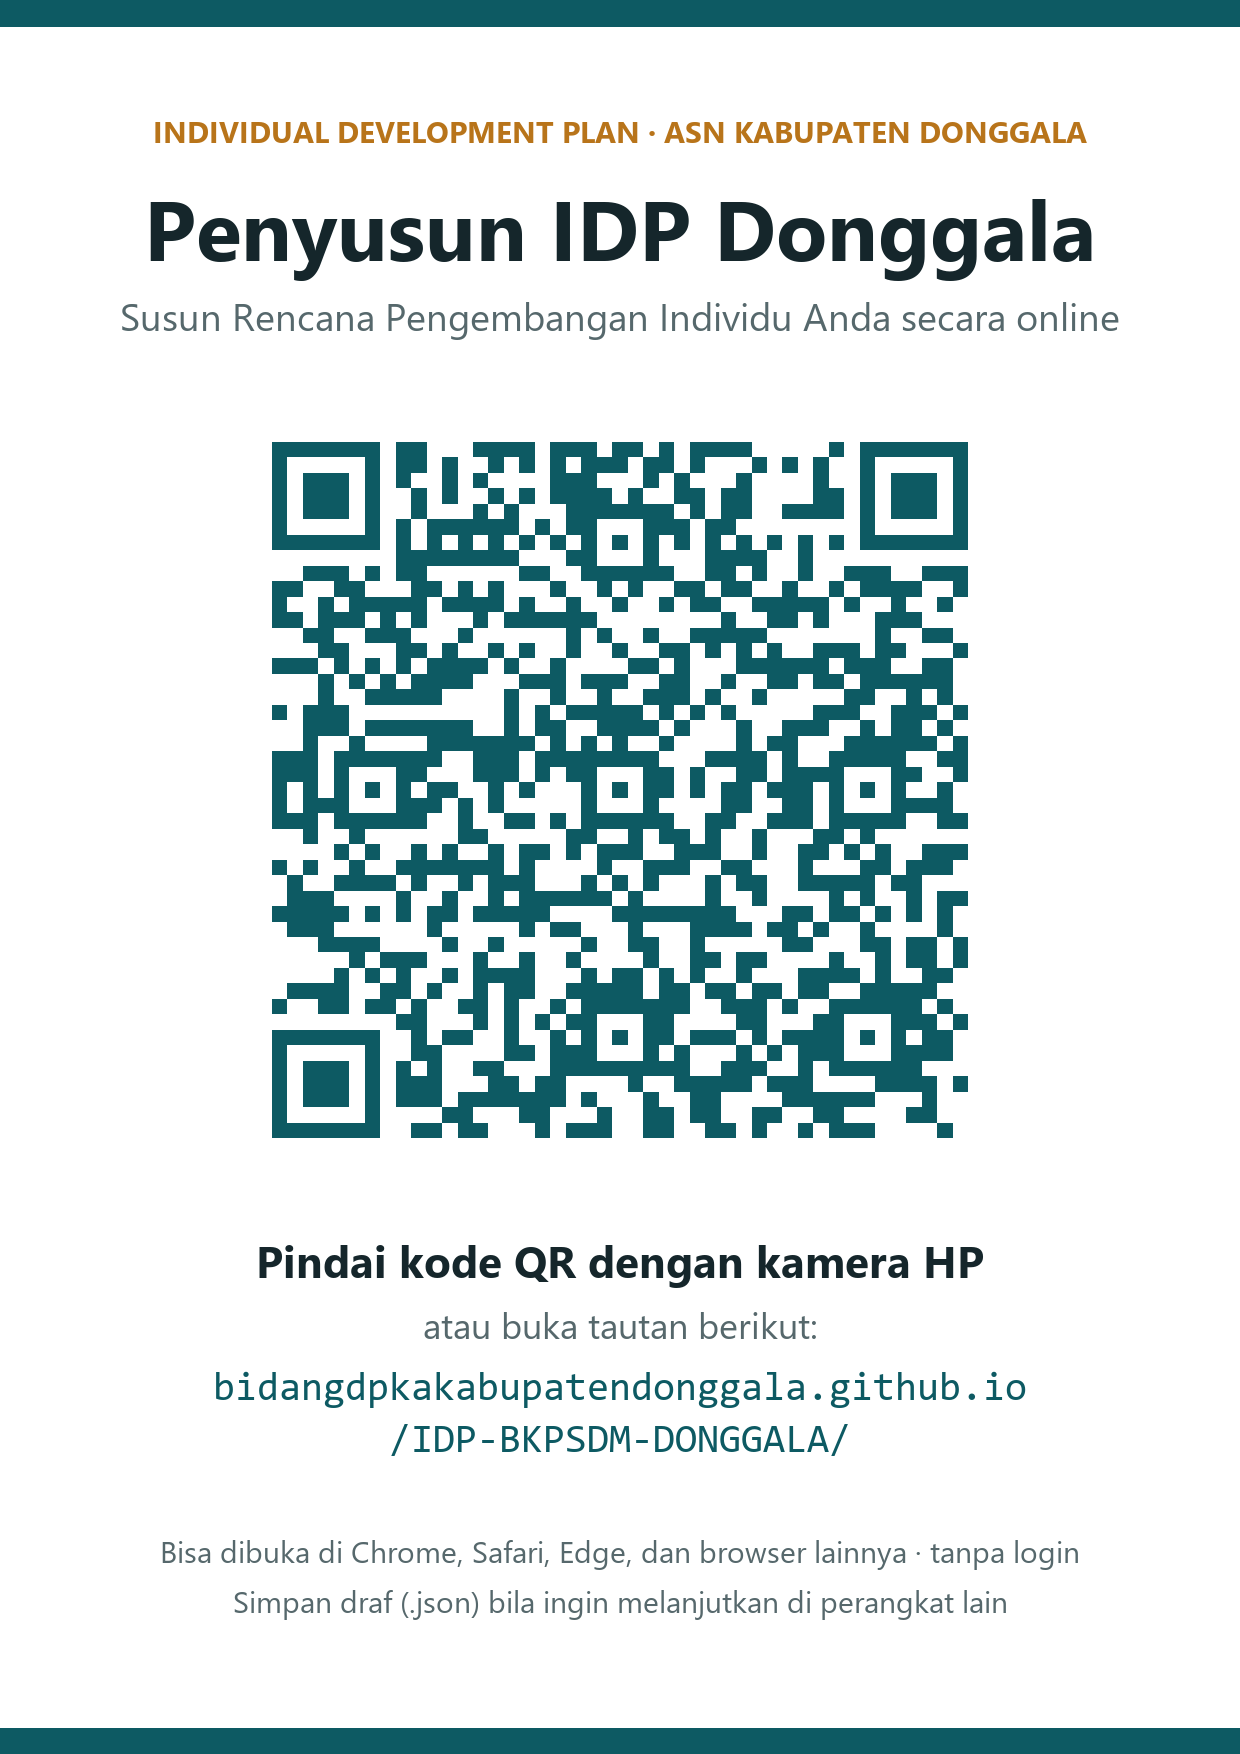
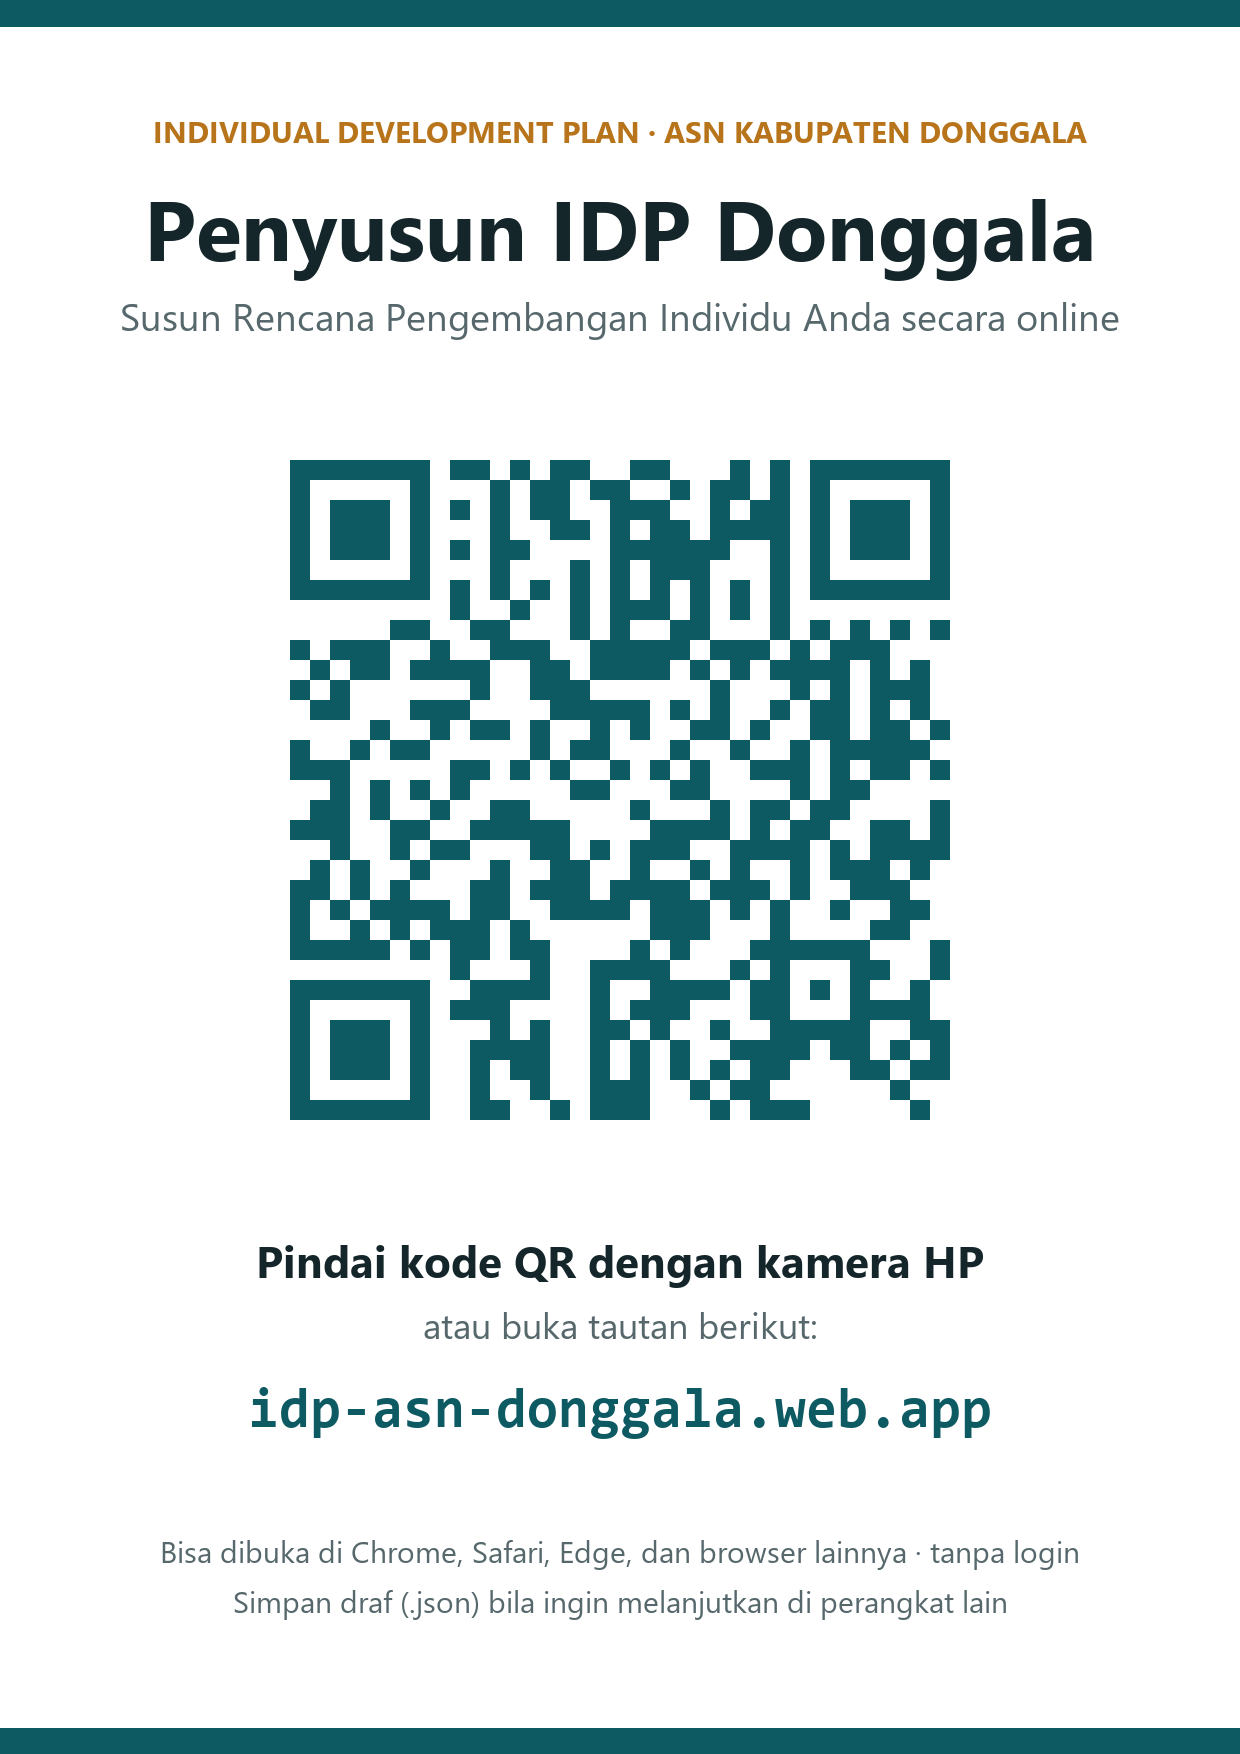
Alamat baru idp-asn-donggala.web.app: QR, poster, README, konfigurasi Firebase

Changed region(s): [[0.2145, 0.2463, 0.7968, 0.6465], [0.1839, 0.7697, 0.8274, 0.8312]]

diff --git a/README.md b/README.md
@@ -2,7 +2,9 @@
 
 Aplikasi web untuk menyusun Rencana Pengembangan Individu (Individual Development Plan/IDP) ASN Kabupaten Donggala.
 
-**Buka aplikasi:** https://bidangdpkakabupatendonggala.github.io/IDP-BKPSDM-DONGGALA/
+**Buka aplikasi:** https://idp-asn-donggala.web.app
+
+Alamat cadangan (GitHub Pages): https://bidangdpkakabupatendonggala.github.io/IDP-BKPSDM-DONGGALA/
 
 - Isian Bagian I–V sesuai Formulir IDP, dengan level kompetensi otomatis menurut jenjang jabatan target
 - Pemeriksaan kelengkapan dan mutu isian
